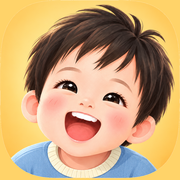
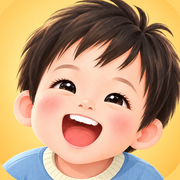
第 258 次：App 图标放大、去掉画里的圆角边（SW v222）

diff --git a/sw.js b/sw.js
@@ -12,7 +12,7 @@
    ★ 改任何被缓存的静态文件后，必须递增 CACHE 版本号，
      否则已安装用户会一直命中旧缓存（activate 时统一清理旧版本）。 */
 
-var CACHE = 'baoma-static-v221';
+var CACHE = 'baoma-static-v222';
 /* v90（第 129 次）：首屏降噪——对标 Cali 首屏设计（HomeWidgetSnapshot 无 reminder 字段，
    逾期只以 VaccineReminderPlan.pendingCount 计数存在）。疫苗逾期 / 儿保过参考时间 /
    发育观察期过期这三类「今天不可能完成」的陈旧待办，从三条整卡合并为一行「待补」汇总

diff --git a/变更记录.md b/变更记录.md
@@ -19,6 +19,10 @@
 
 ---
 
+## 2026-10-26 · 第 258 次 · 图标放大、去掉画里的圆角边
+- 原图自带一圈画出来的圆角边，圆角比 iOS 的大，主屏上会看到两层圆角。四边各裁掉 5% 再放大回 1024，那圈边落在系统圆角之外，画面也略放大。
+- 重出全部图标尺寸与启动画面。SW v222。
+
 ## 2026-10-26 · 第 257 次 · 换 App 图标
 - 用新的宝宝笑脸图（黄底）替换 App 图标：apple-touch-icon（180）、icon-192/512、maskable-512（主体缩进安全区，四周补同色黄底）、favicon 16/32、logo-1024。
 - 用 tools/gen_pwa_assets.py 重新生成全部 iOS 启动画面（亮 / 暗各 11 个机型），中间的图标换成新图。
